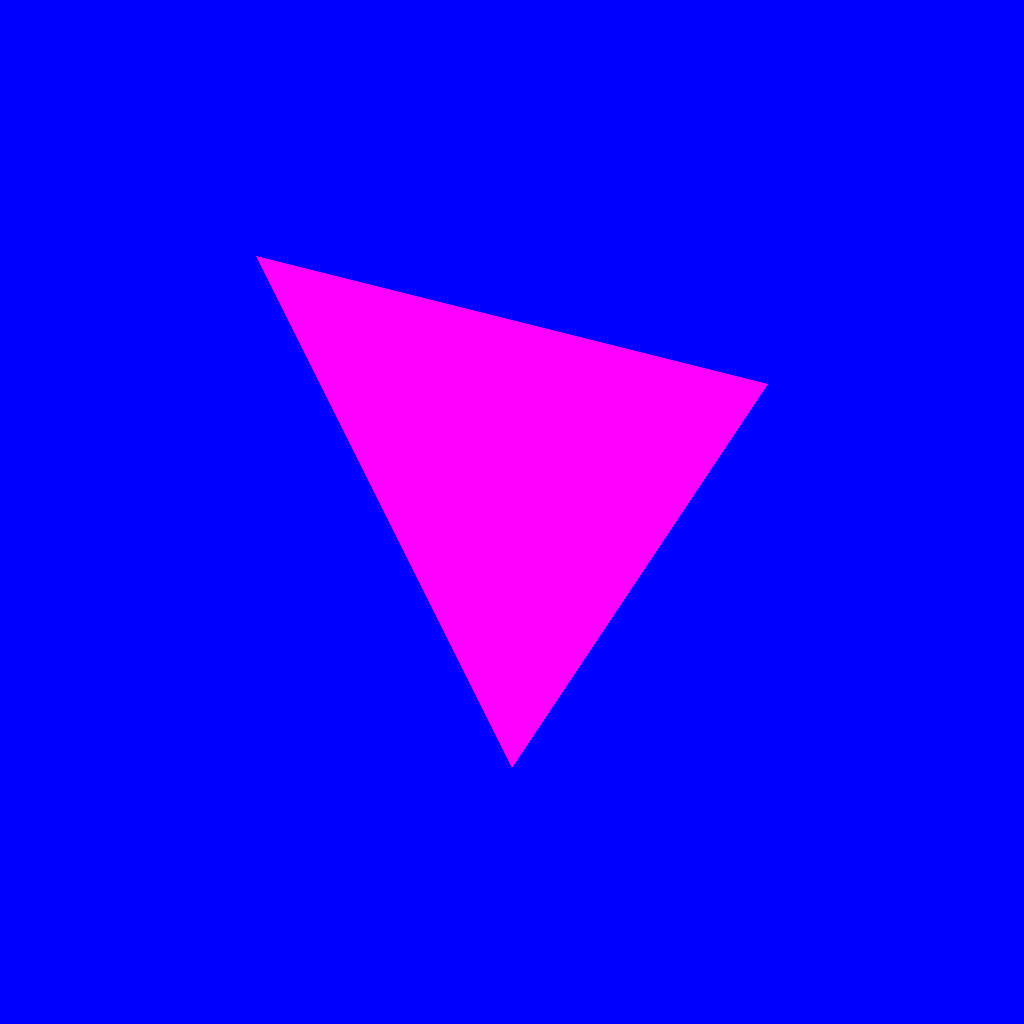
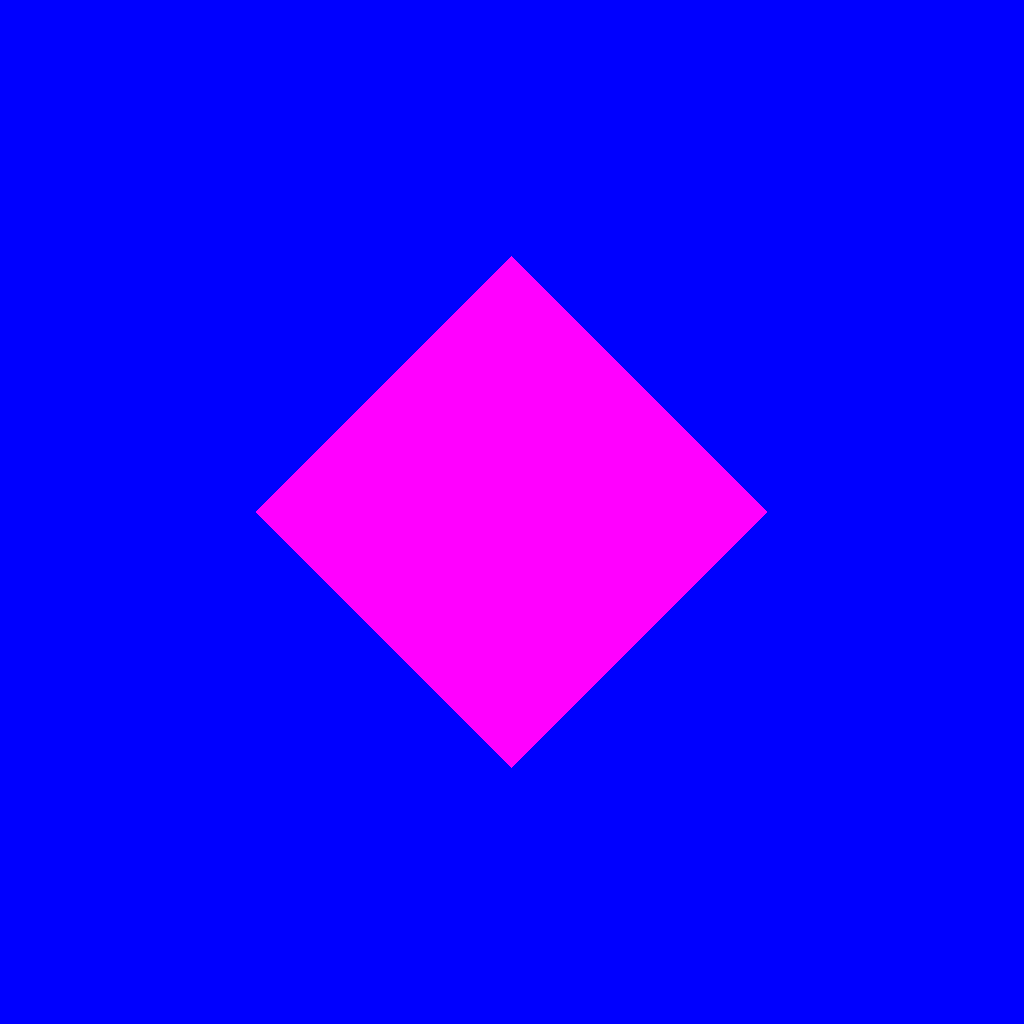
index buffer support

Changed region(s): [[0.25, 0.25, 0.75, 0.75]]

diff --git a/src/main.rs b/src/main.rs
@@ -66,15 +66,20 @@ fn main() {
 
     let vertices = [
         MyVertex {
-            position: [-0.5, -0.5],
+            position: [-0.5, 0.0],
         },
         MyVertex {
             position: [0.0, 0.5],
         },
         MyVertex {
-            position: [0.5, -0.25],
+            position: [0.5, 0.0],
+        },
+        MyVertex {
+            position: [0.0, -0.5],
         },
     ];
+    let indices = [0u32, 1, 2, 2, 3, 0];
+
     let vertex_buffer = Buffer::from_iter(
         memory_allocator.clone(),
         BufferCreateInfo {
@@ -87,6 +92,20 @@ fn main() {
             ..Default::default()
         },
         vertices,
+    )
+    .unwrap();
+    let index_buffer = Buffer::from_iter(
+        memory_allocator.clone(),
+        BufferCreateInfo {
+            usage: BufferUsage::INDEX_BUFFER,
+            ..Default::default()
+        },
+        AllocationCreateInfo {
+            memory_type_filter: MemoryTypeFilter::PREFER_DEVICE
+                | MemoryTypeFilter::HOST_SEQUENTIAL_WRITE,
+            ..Default::default()
+        },
+        indices,
     )
     .unwrap();
 
@@ -259,7 +278,9 @@ fn main() {
         .unwrap()
         .bind_vertex_buffers(0, vertex_buffer.clone())
         .unwrap()
-        .draw(3, 1, 0, 0)
+        .bind_index_buffer(index_buffer.clone())
+        .unwrap()
+        .draw_indexed(indices.len().try_into().unwrap(), 1, 0, 0, 0)
         .unwrap()
         .end_render_pass(SubpassEndInfo::default())
         .unwrap()
